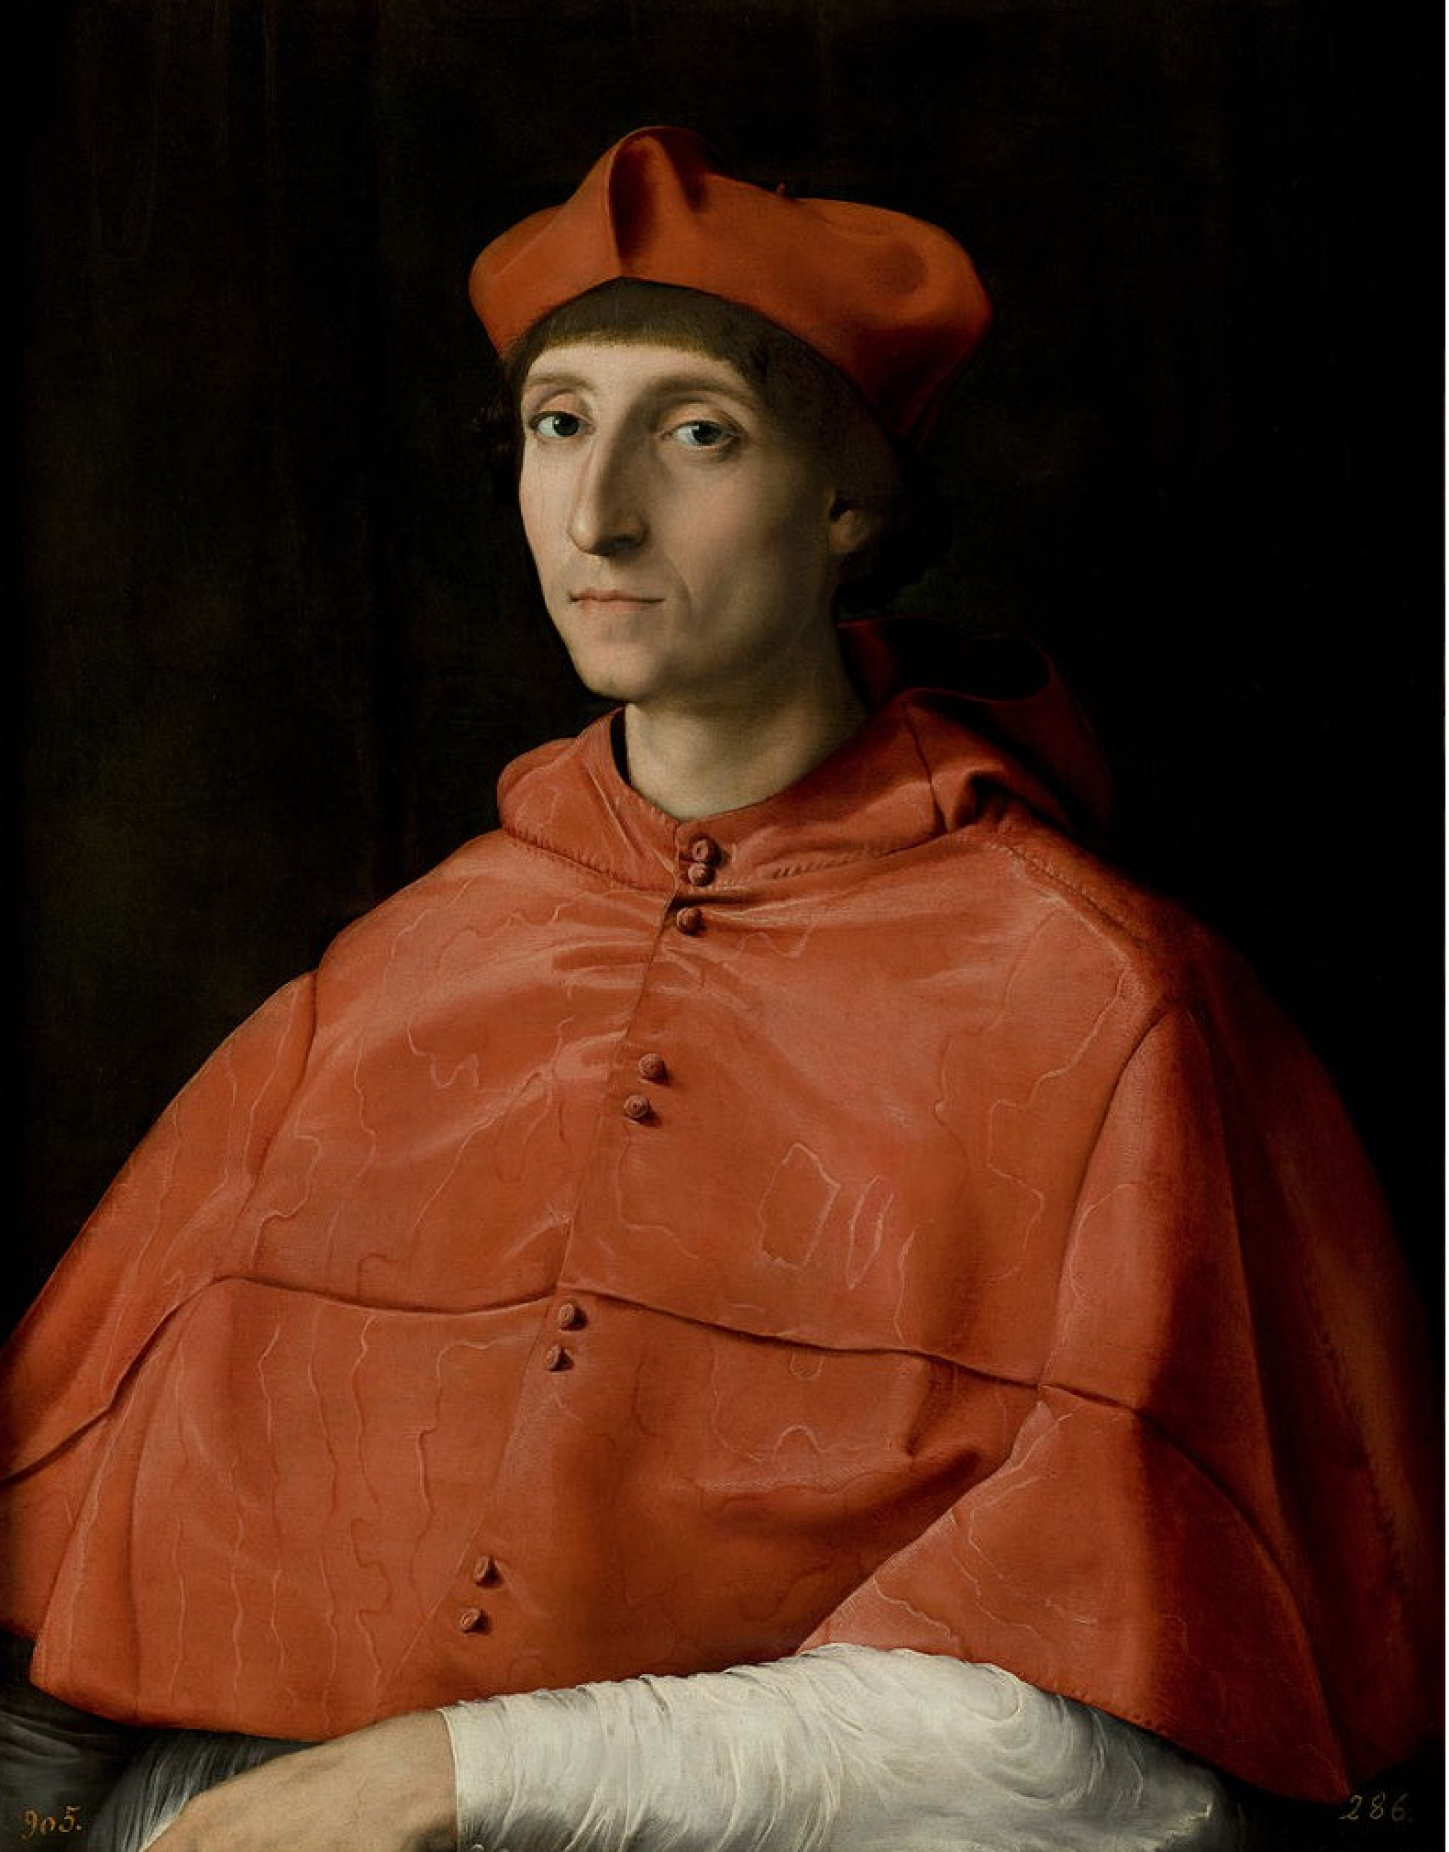
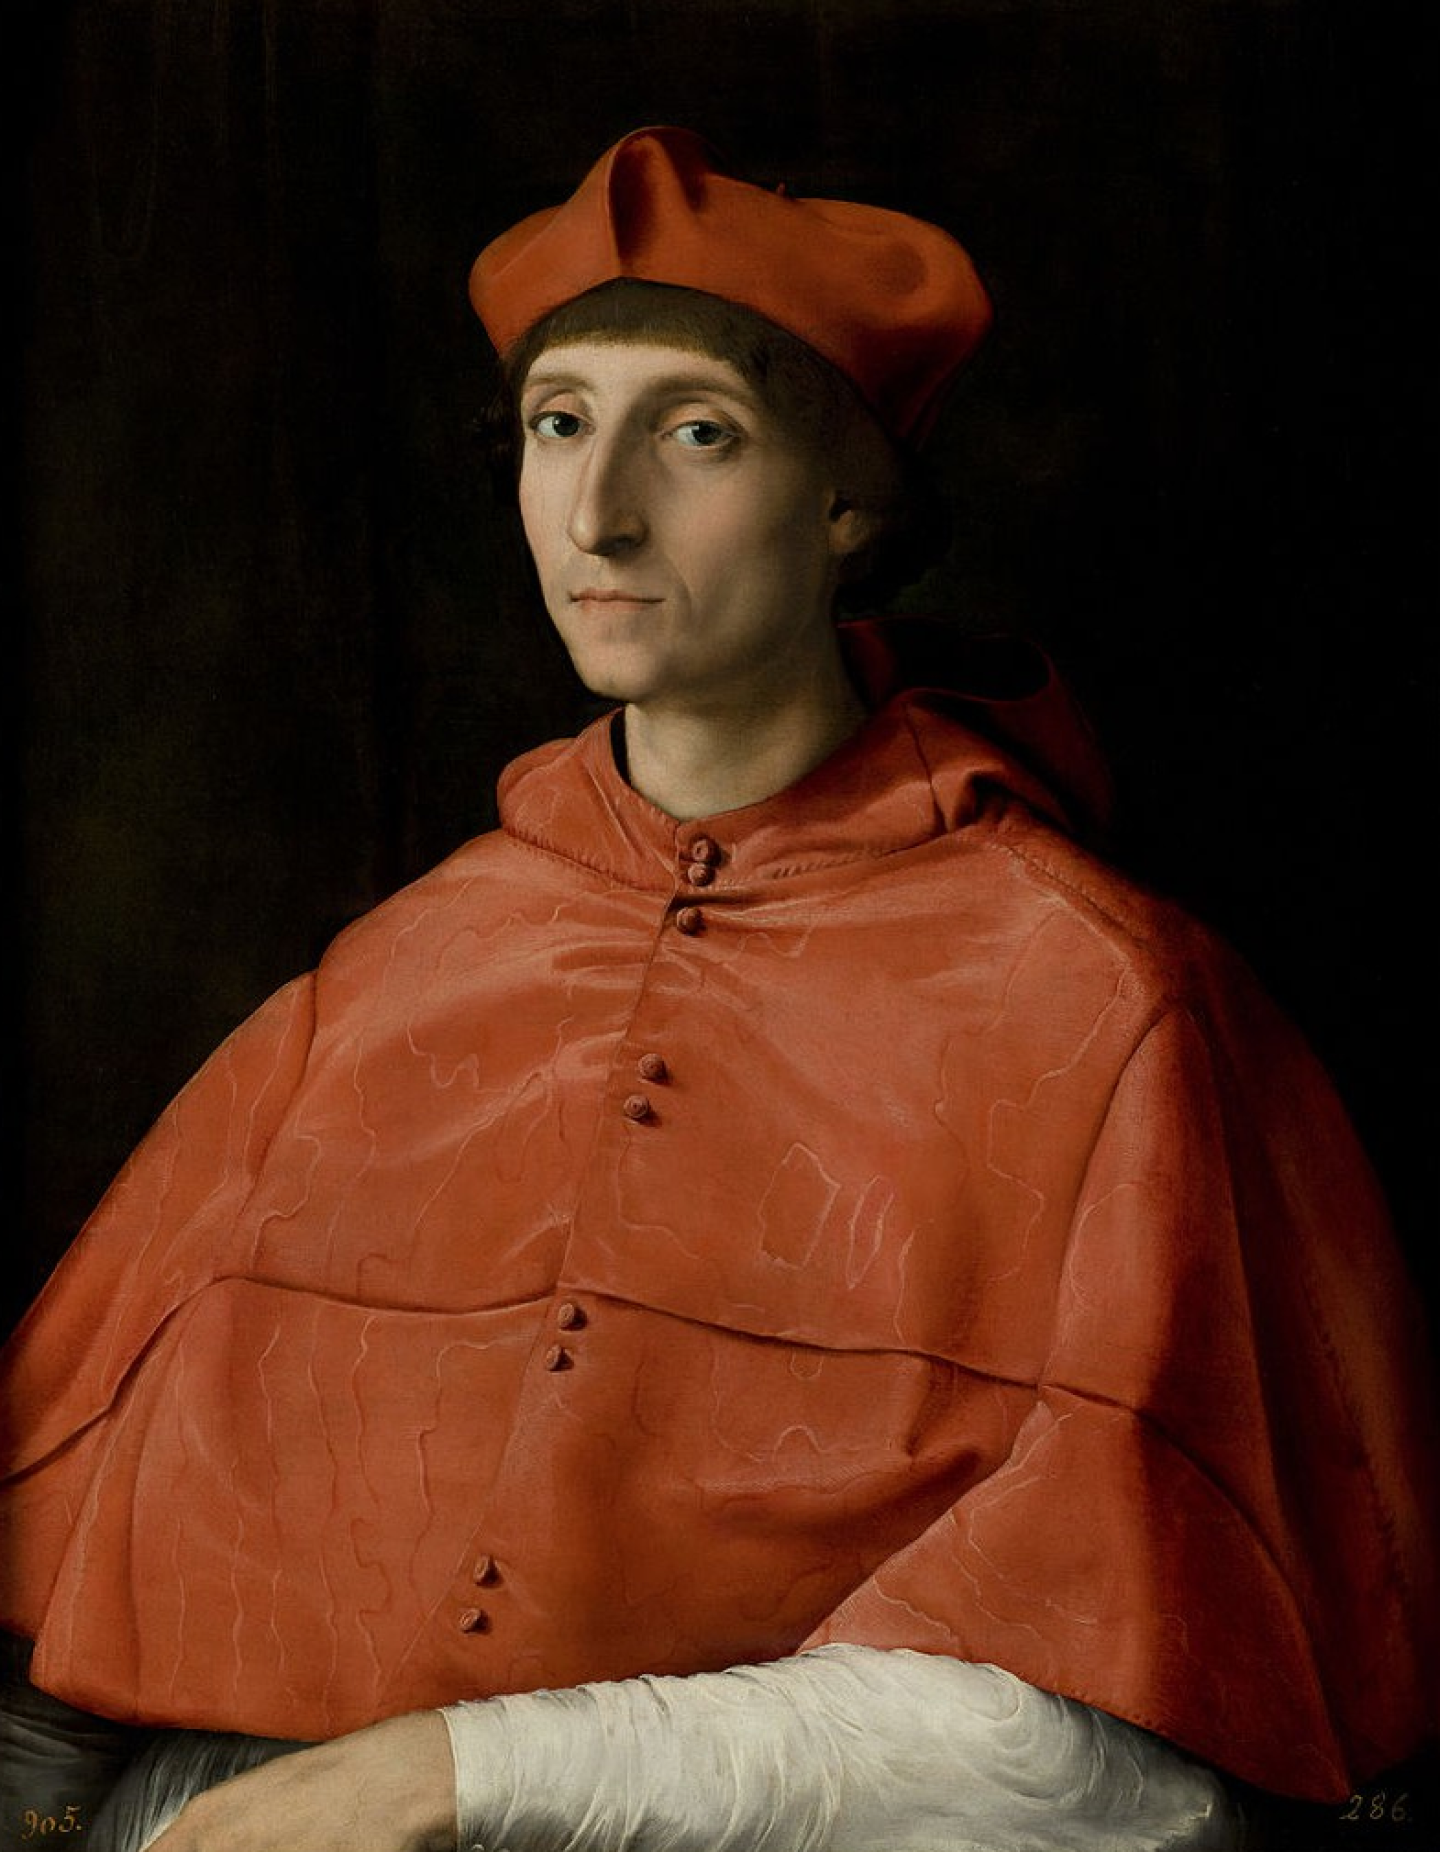
fix: fix styles and assets

diff --git a/art-quiz/src/pages/settings/settings.m.html b/art-quiz/src/pages/settings/settings.m.html
@@ -1,73 +1,72 @@
-<!-- <div class="settings"> -->
-    <header class="header">
-        <div class="container">
-            <div class="header__content">
-                <div class="header__settings-page">
-                
-                    Settings
-                    <a class="button button_exit" href="#start"></a>
-                </div>
+<header class="header">
+    <div class="container">
+        <div class="header__content">
+            <div class="header__settings-page">
+                Settings
+                <a class="button button_exit" href="#start"></a>
             </div>
         </div>
-    </header>
+    </div>
+</header>
 
-    <main class="main">
-        <div class="container">
-            <section class="settings-page">
-                <div class="settings-page__content">
-                    <div class="settings-page__options">
-                        <div class="volume-settings">
-                            <p class="settings-page__options-header">Volume</p>
-                            <div class="volume-settings__content">
-                                <input class="volume-settings__range" id="volume_settings" type="range" step="1" min="0" max="100" value="0">
-                                <div class="volume-setting__button-group">
-                                    <button class="button button_mute"></button>
-                                    <button class="button button_sound"></button>
-                                </div>
+<main class="main">
+    <div class="container">
+        <section class="settings-page">
+            <div class="settings-page__content">
+                <div class="settings-page__options">
+                    <div class="volume-settings">
+                        <p class="settings-page__options-header">Volume</p>
+                        <div class="volume-settings__content">
+                            <input class="volume-settings__range" id="volume_settings" type="range" step="1" min="0" max="100" value="0">
+                            <div class="volume-setting__button-group">
+                                <button class="button button_mute"></button>
+                                <button class="button button_sound"></button>
                             </div>
                         </div>
+                    </div>
 
-                        <div class="time-game-settings">
-                            <p class="settings-page__options-header">Time game</p>
+                    <div class="time-game-settings">
+                        <p class="settings-page__options-header">Time game</p>
+
+                        <div class="time-game-settings__content">
                             <label for="timer_off">Off</label>
                             <input id="timer_off" type="radio" name="time-game" value="off" checked>
                             <label for="timer_on">On</label>
                             <input id="timer_on" type="radio" name="time-game" value="on">
                         </div>
+                    </div>
 
-                        <div class="time-answer-settings">
-                            <p class="settings-page__options-header">Time to answer</p>
-                            <div class="time-answer-settings__time-group">
-                                <button class="button button_circle button_circle_minus" id="timer_settings_minus"></button>
-                                <input class="time-answer-settings__time" id="timer_settings" type="number" step="5" min="0" max="30" value="0" readonly>
-                                <button class="button button_circle button_circle_plus" id="timer_settings_plus"></button>
-                            </div>
+                    <div class="time-answer-settings">
+                        <p class="settings-page__options-header">Time to answer</p>
+                        <div class="time-answer-settings__time-group">
+                            <button class="button button_circle button_circle_minus" id="timer_settings_minus"></button>
+                            <input class="time-answer-settings__time" id="timer_settings" type="number" step="5" min="0" max="30" value="0" readonly>
+                            <button class="button button_circle button_circle_plus" id="timer_settings_plus"></button>
                         </div>
                     </div>
-
-                    <div class="settings-page__button-group">
-                        <button class="button button_basic settings-page__button" id="default_settings">Default</button>
-                        <button class="button button_basic settings-page__button" id="save_settings">Save</button>
-                    </div>
                 </div>
-            </section>
-        </div>
-    </main>
 
-    <footer class="footer">
-        <div class="container">
-            <div class="footer__content">
-                <div class="footer-info">
-                    <a href="https://rs.school/js/">
-                        <div class="footer-info__rsschool-logo"></div>
-                    </a>
-                    <a href="https://github.com/dariija">
-                        <div class="footer-info__author">dariija</div>
-                    </a>
-                    <div class="footer-info__year">2021</div>
+                <div class="settings-page__button-group">
+                    <button class="button button_basic settings-page__button" id="default_settings">Default</button>
+                    <button class="button button_basic settings-page__button" id="save_settings">Save</button>
                 </div>
             </div>
+        </section>
+    </div>
+</main>
+
+<footer class="footer">
+    <div class="container">
+        <div class="footer__content">
+            <div class="footer-info">
+                <a href="https://rs.school/js/">
+                    <div class="footer-info__rsschool-logo"></div>
+                </a>
+                <a href="https://github.com/dariija">
+                    <div class="footer-info__author">dariija</div>
+                </a>
+                <div class="footer-info__year">2021</div>
+            </div>
         </div>
-    </footer>
-    
-<!-- </div> -->
+    </div>
+</footer>

diff --git a/art-quiz/src/pages/app/basis.css b/art-quiz/src/pages/app/basis.css
@@ -35,21 +35,18 @@
 
 body {
     width: 100%;
-    /* width: 100vw; */
     min-height: 100vh;
     margin: 0;
 
-    /* display: flex;
-    flex-direction: column; */
-
     background-color: rgb(0, 0, 0);
-    /* background-color: rgb(206, 16, 63); */
     
     font-family: 'Gilroy', Arial, Helvetica, sans-serif;
     font-size: 16px;
     font-weight: 500;
     font-style: normal;
     color: white;
+
+    transition: 1s ease-in-out;
 }
 
 *,
@@ -100,6 +97,8 @@ a  {
 
     text-decoration: none;
     color: white;
+
+    transition: linear 0.2s;
 }
 
 /* ------------------- Main ------------------------- */
@@ -134,12 +133,22 @@ a  {
     padding: 0 15px;
 }
 
+.fadeOut {
+    visibility: hidden;
+    opacity: 0;
+    transition: visibility linear 0.8s, opacity linear 0.8s;
+}
+
+.fadeIn {
+    visibility: visible;
+    opacity: 1;
+    transition: visibility linear 0.8s, opacity linear 0.8s;
+}
+
 /* ------------------- Buttons ------------------------- */
 
 .button {
-    /* padding: 0; */
     padding: 5px;
-    /* display: inline-block; */
 
     font-size: 16px;
     font-family: 'Gilroy', Arial, Helvetica, sans-serif;
@@ -149,7 +158,7 @@ a  {
     border: none;
 
     cursor: pointer;
-    transition: linear 0.2s;
+    transition: linear 0.5s;
 }
 
 .button_basic {
@@ -224,7 +233,6 @@ a  {
     height: 34px;
 
     background: url('../../assets/svg/carbon_settings.svg') no-repeat;
-    /* vertical-align: middle;  */
 }
 
 .button_settings:hover {
@@ -280,4 +288,28 @@ a  {
 
 .button_score:hover {
     background: url('../../assets/svg/score-button-active.svg') no-repeat;
+}
+
+/* ------------------- Input range ------------------------- */
+
+input[type="range"] { 
+    -webkit-appearance: none;
+    overflow: hidden;
+    height: 7px;
+    cursor: pointer;
+    border-radius: 3px;
+}
+
+::-webkit-slider-runnable-track {
+    background: rgb(255, 255, 255);
+}
+
+::-webkit-slider-thumb {
+    -webkit-appearance: none;
+    width: 12px;
+    height: 10px;
+    background: #fff;
+    box-shadow: -100vw 0 0 100vw #FFBCA2;
+    border: 1px solid #999;
+    border-radius: 5px;
 }

diff --git a/art-quiz/src/pages/start/start.css b/art-quiz/src/pages/start/start.css
@@ -10,14 +10,13 @@
     text-align: end;
 }
 
-
 /* ------------------- Start-page ------------------------- */
 
 .start {
     justify-content: space-between;
     background: url('../../assets/img/j-retrato-de-cardenal-rafael.png') no-repeat;
     background-size: cover;
-    background-position: 50% 0%;
+    background-position: 50% 10%;
 }
 
 .start-page {
@@ -64,15 +63,12 @@
 
 .footer {
     width: 100%;
-    /* height: 45px; */
-    /* margin-top: auto; */
 
     filter: drop-shadow(0px -10px 50px rgb(0, 0, 0));
 }
 
 .footer-info {
     width: 100%;
-    /* height: 100%; */
     height: 45px;
     padding: 10px 0;
 
@@ -88,7 +84,6 @@
     background: url('../../assets/svg/rsschool-logo.svg') no-repeat;
 }
 
-
 /* ------------------- Media Queries ------------------------- */
 
 @media (min-width: 521px) {
@@ -103,8 +98,6 @@
 
     .start-page__content {
         max-width: 322px;
-        /* min-width: 322px; */
-
         justify-content: center;
     }
 
@@ -139,7 +132,6 @@
 
     .start-page__content {
         max-width: 615px;
-        /* min-width: 615px; */
     }
 
     .start-page__logo {

diff --git a/art-quiz/src/pages/questions/questions.js b/art-quiz/src/pages/questions/questions.js
@@ -22,6 +22,7 @@ class QuestionsPage extends Page {
         let timerRange = document.createElement('input');
         timerRange.id = 'timer_range';
         timerRange.type = 'range';
+        timerRange.readOnly = true;
         timerRange.classList.add('timer__scale');
         timerRange.min = 0;
         timerRange.max = quiz.settings.timer.value;
@@ -70,7 +71,9 @@ class QuestionsPage extends Page {
         let exitButton = document.getElementById('exit_button');
         exitButton.addEventListener('click', () =>{
             if (quiz.settings.timer.enable) {
-                quiz.stopTimer()
+                quiz.stopTimer();
+                quiz.currentQuestion = 0;
+                quiz.currentCategoryGame = '';
             }
         })
     }

diff --git a/art-quiz/src/pages/settings/settings.js b/art-quiz/src/pages/settings/settings.js
@@ -35,7 +35,7 @@ class SettingsPage extends Page{
         this.volumeEl = document.getElementById('volume_settings');
 
         this.timerOnEl.addEventListener('change', () => {
-            if (this.timerValueEl.value === '0') this.timerValueEl.value = 20;
+            if (this.timerValueEl.value === '0') this.timerValueEl.value = 5;
         });
 
         this.timerOffEl.addEventListener('change', () => {

diff --git a/art-quiz/src/pages/categories/categories.js b/art-quiz/src/pages/categories/categories.js
@@ -23,6 +23,11 @@ class CategoriesPage extends Page{
         };
         Category.enableCategoryQuiz(container.children, quiz);
     }
+
+    static showCategories() {
+        let container = document.getElementById('categories_cards');
+        container.classList.add('fadeIn');
+    }
 }
 
 export default CategoriesPage

diff --git a/art-quiz/src/pages/settings/settings.css b/art-quiz/src/pages/settings/settings.css
@@ -73,6 +73,8 @@
 }
 
 .volume-setting__button-group {
+    margin-top: 15px;
+
     display: flex;
     justify-content: space-between;
 }
